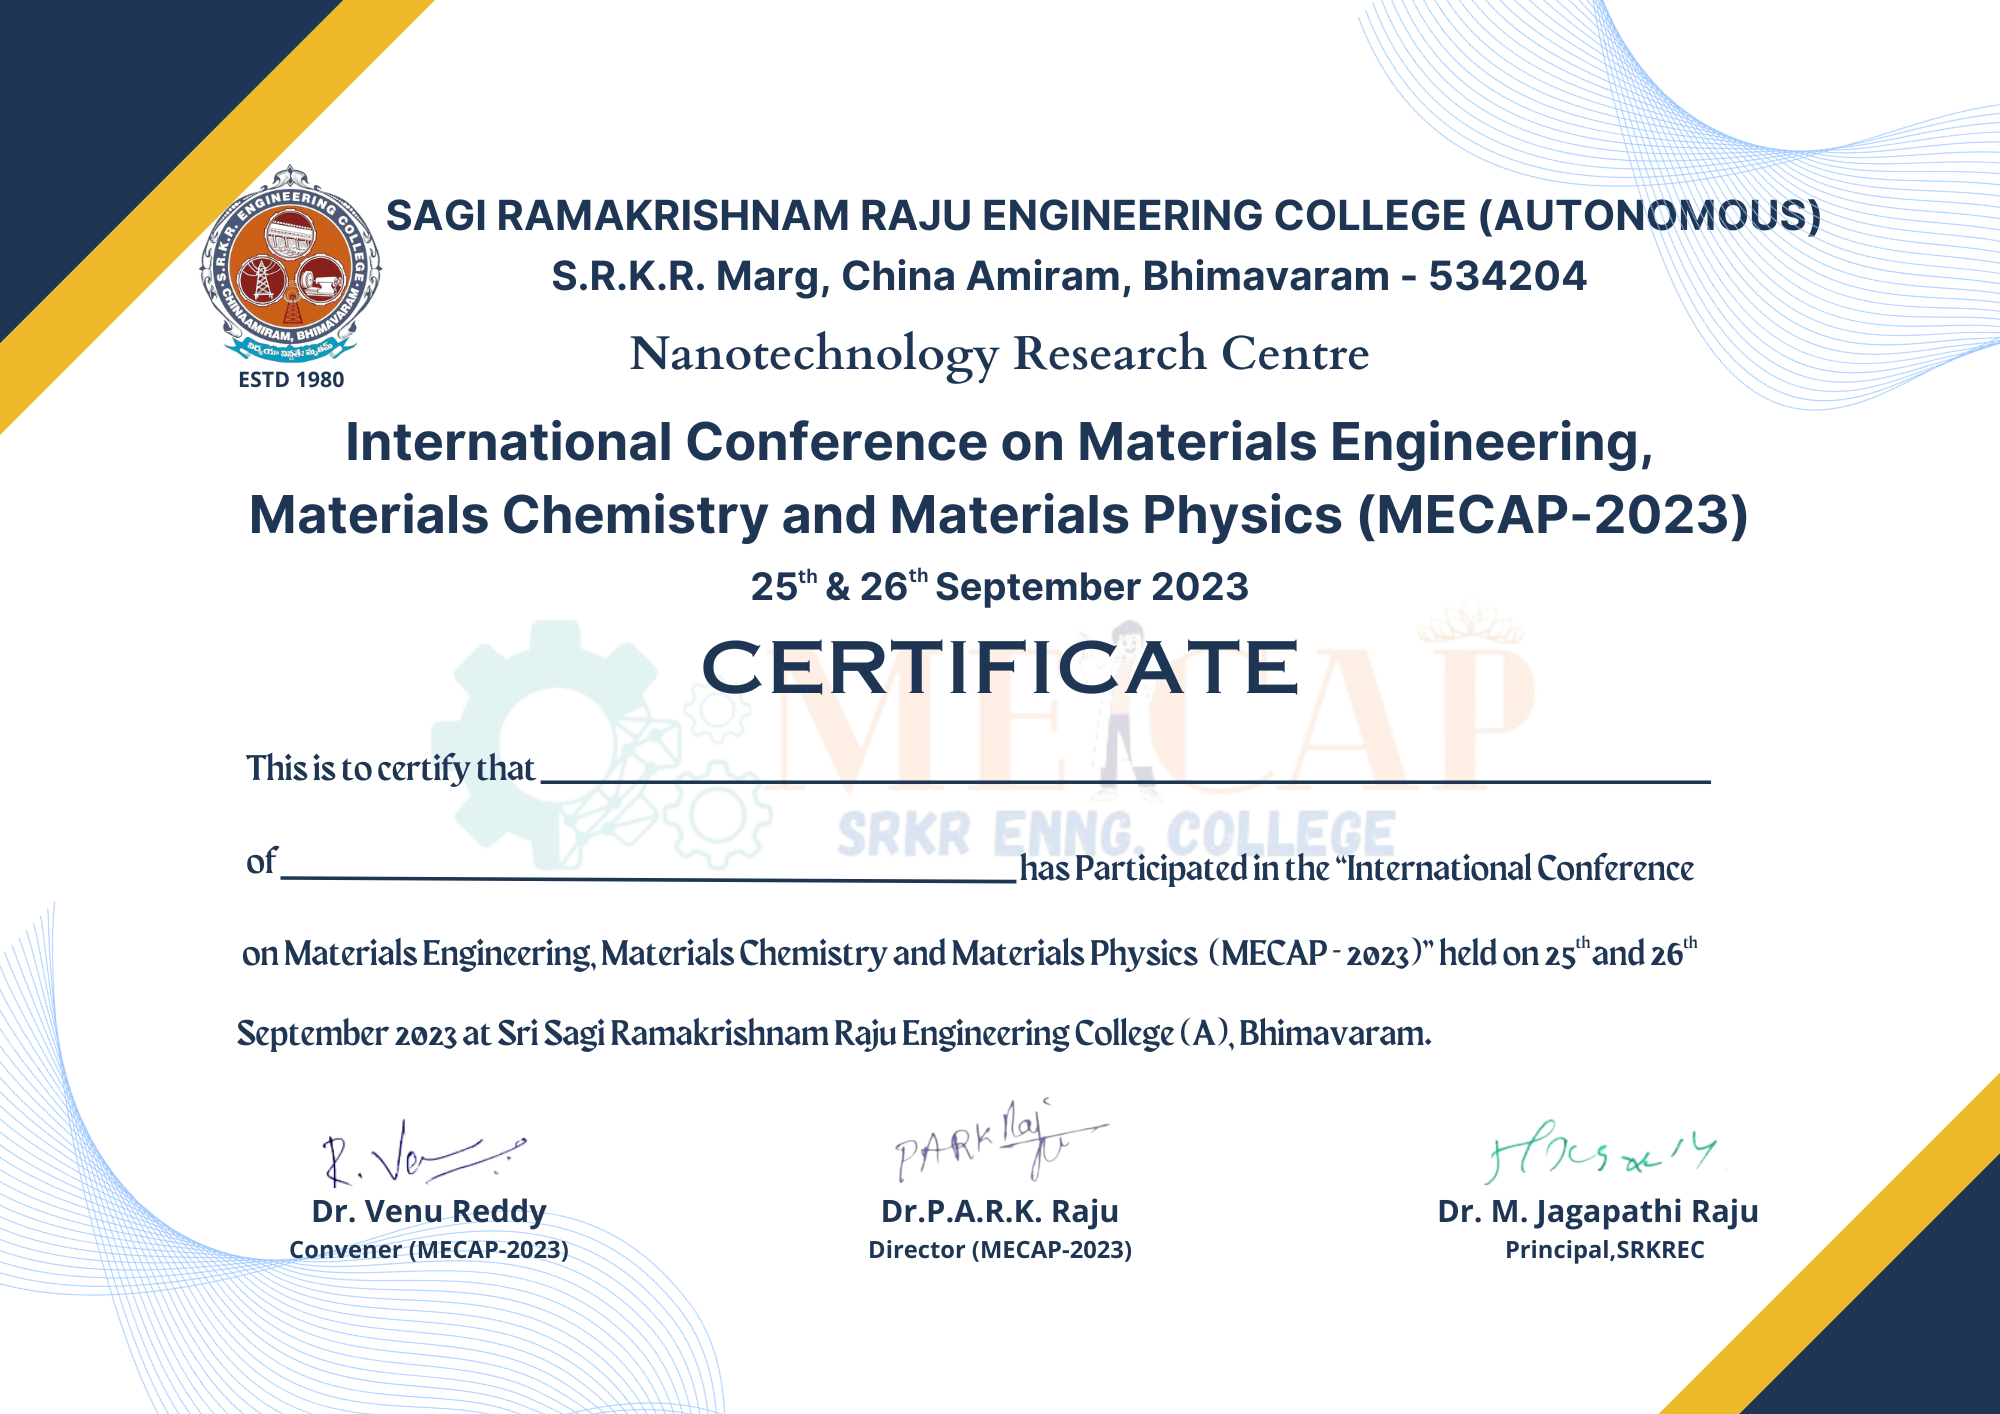
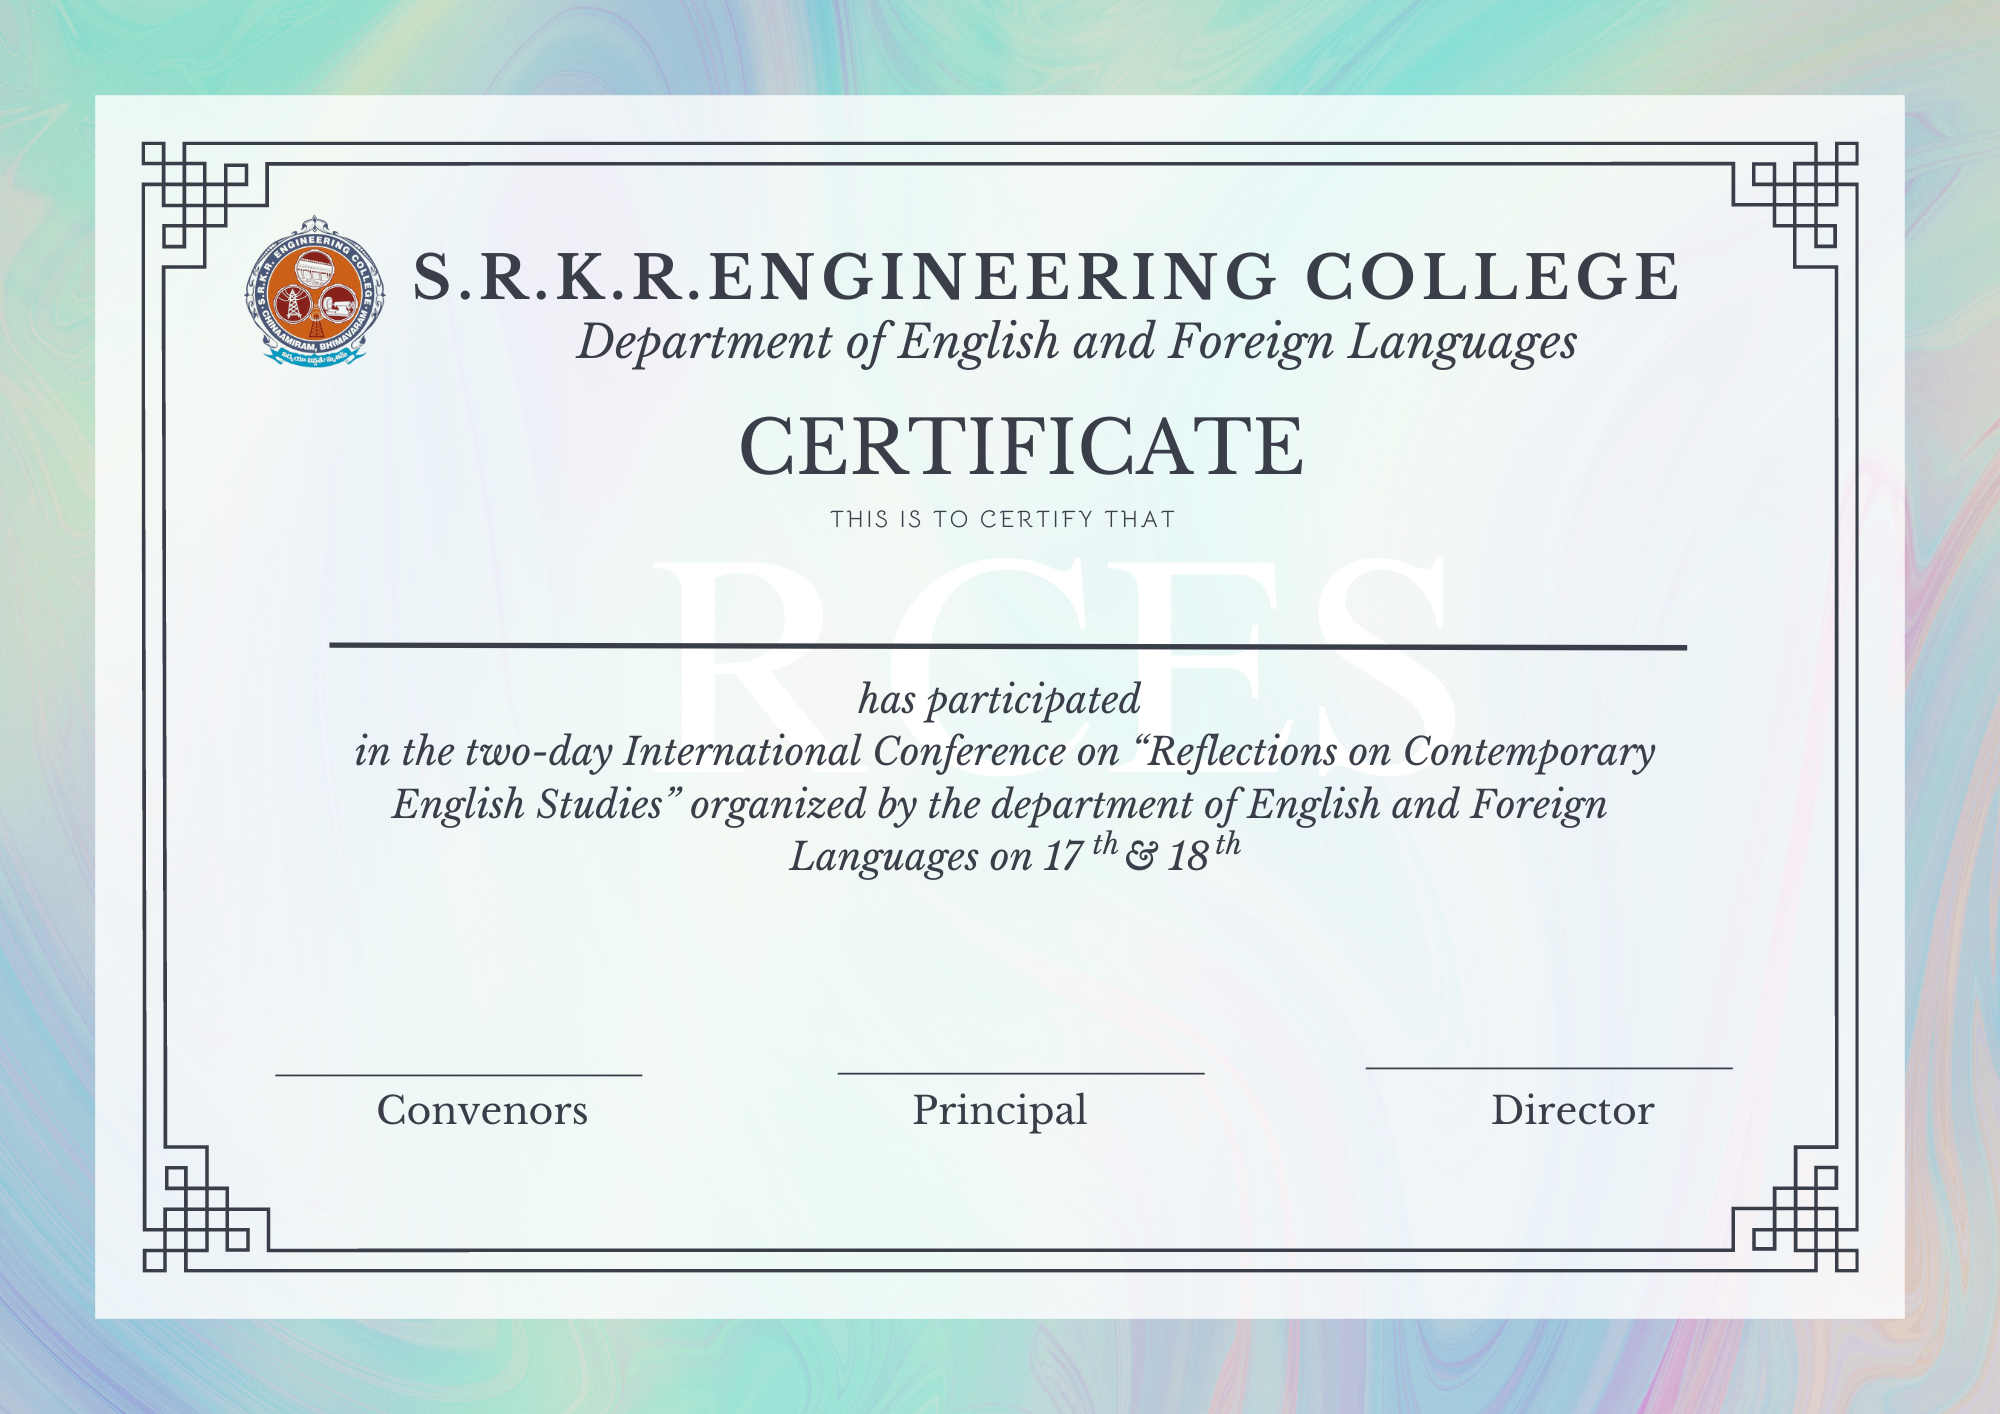
participation certification done

diff --git a/certificate/participate.php b/certificate/participate.php
@@ -18,7 +18,7 @@ $font = './roboto.ttf'; // Provide the correct path to your font file
 $rollno=($_POST['rollno']);
 include "../connect.php";
 
-$result=mysqli_query($conn, "SELECT * FROM `members` WHERE `mobile`='$rollno'");
+$result=mysqli_query($conn, "SELECT * FROM `participated` WHERE `mobile`='$rollno'");
 $row=mysqli_fetch_assoc($result);
 
 if(mysqli_num_rows($result) == 0)
@@ -29,16 +29,16 @@ else
   {
 	//echo "<h2 style='color:#AA0055;font-family:Arial;'>CODE MASTER 2018 - LEVEL 1 CERTIFICATE</h2>";  
   $sname=ucwords($row['name']);
-  $subject=$row['department'];
+  // $subject=$row['department'];
   //$name=$sname." - ".$rollno;
 
 //writing name and roll number
 $text = $sname;
-imagettftext($im, 30, 0, 550, 780, $black, $font, $text);
+imagettftext($im, 30, 0, 345, 640, $black, $font, $text);
 
 //writing rool number
-$text = $subject; 
-imagettftext($im, 30, 0, 320, 875, $black, $font, $text);
+// $text = $subject; 
+// imagettftext($im, 30, 0, 320, 875, $black, $font, $text);
 
 $myfile = "tmp/".$rollno.".png";
 
